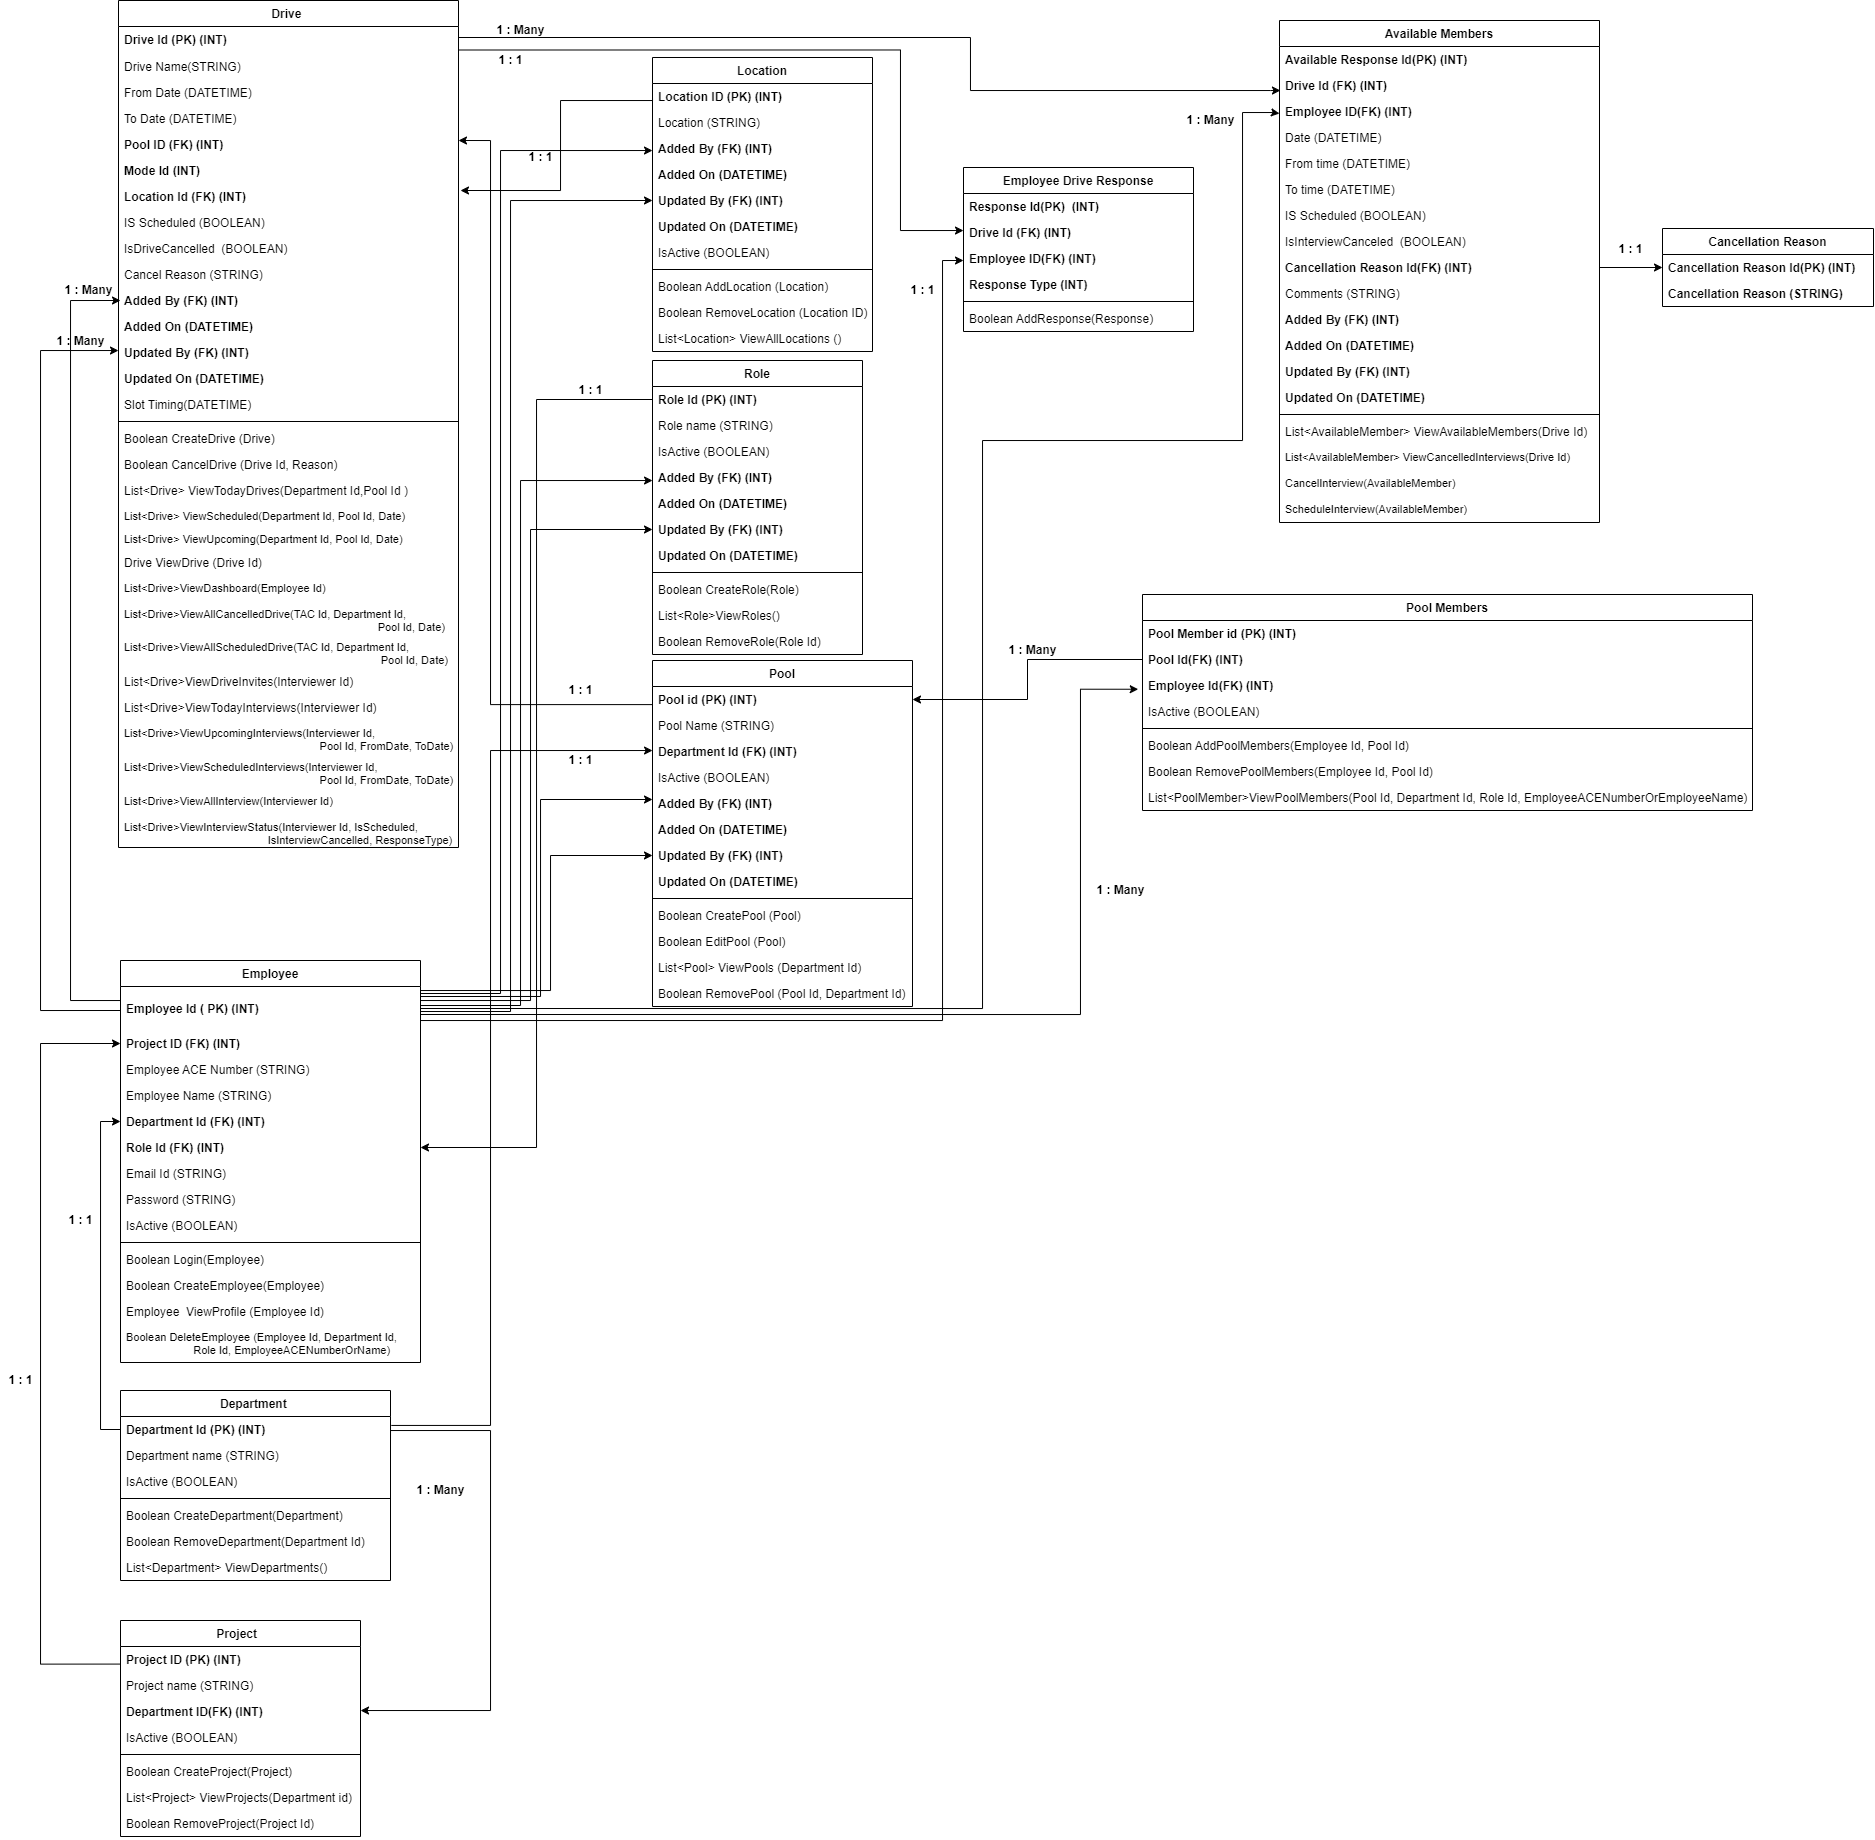
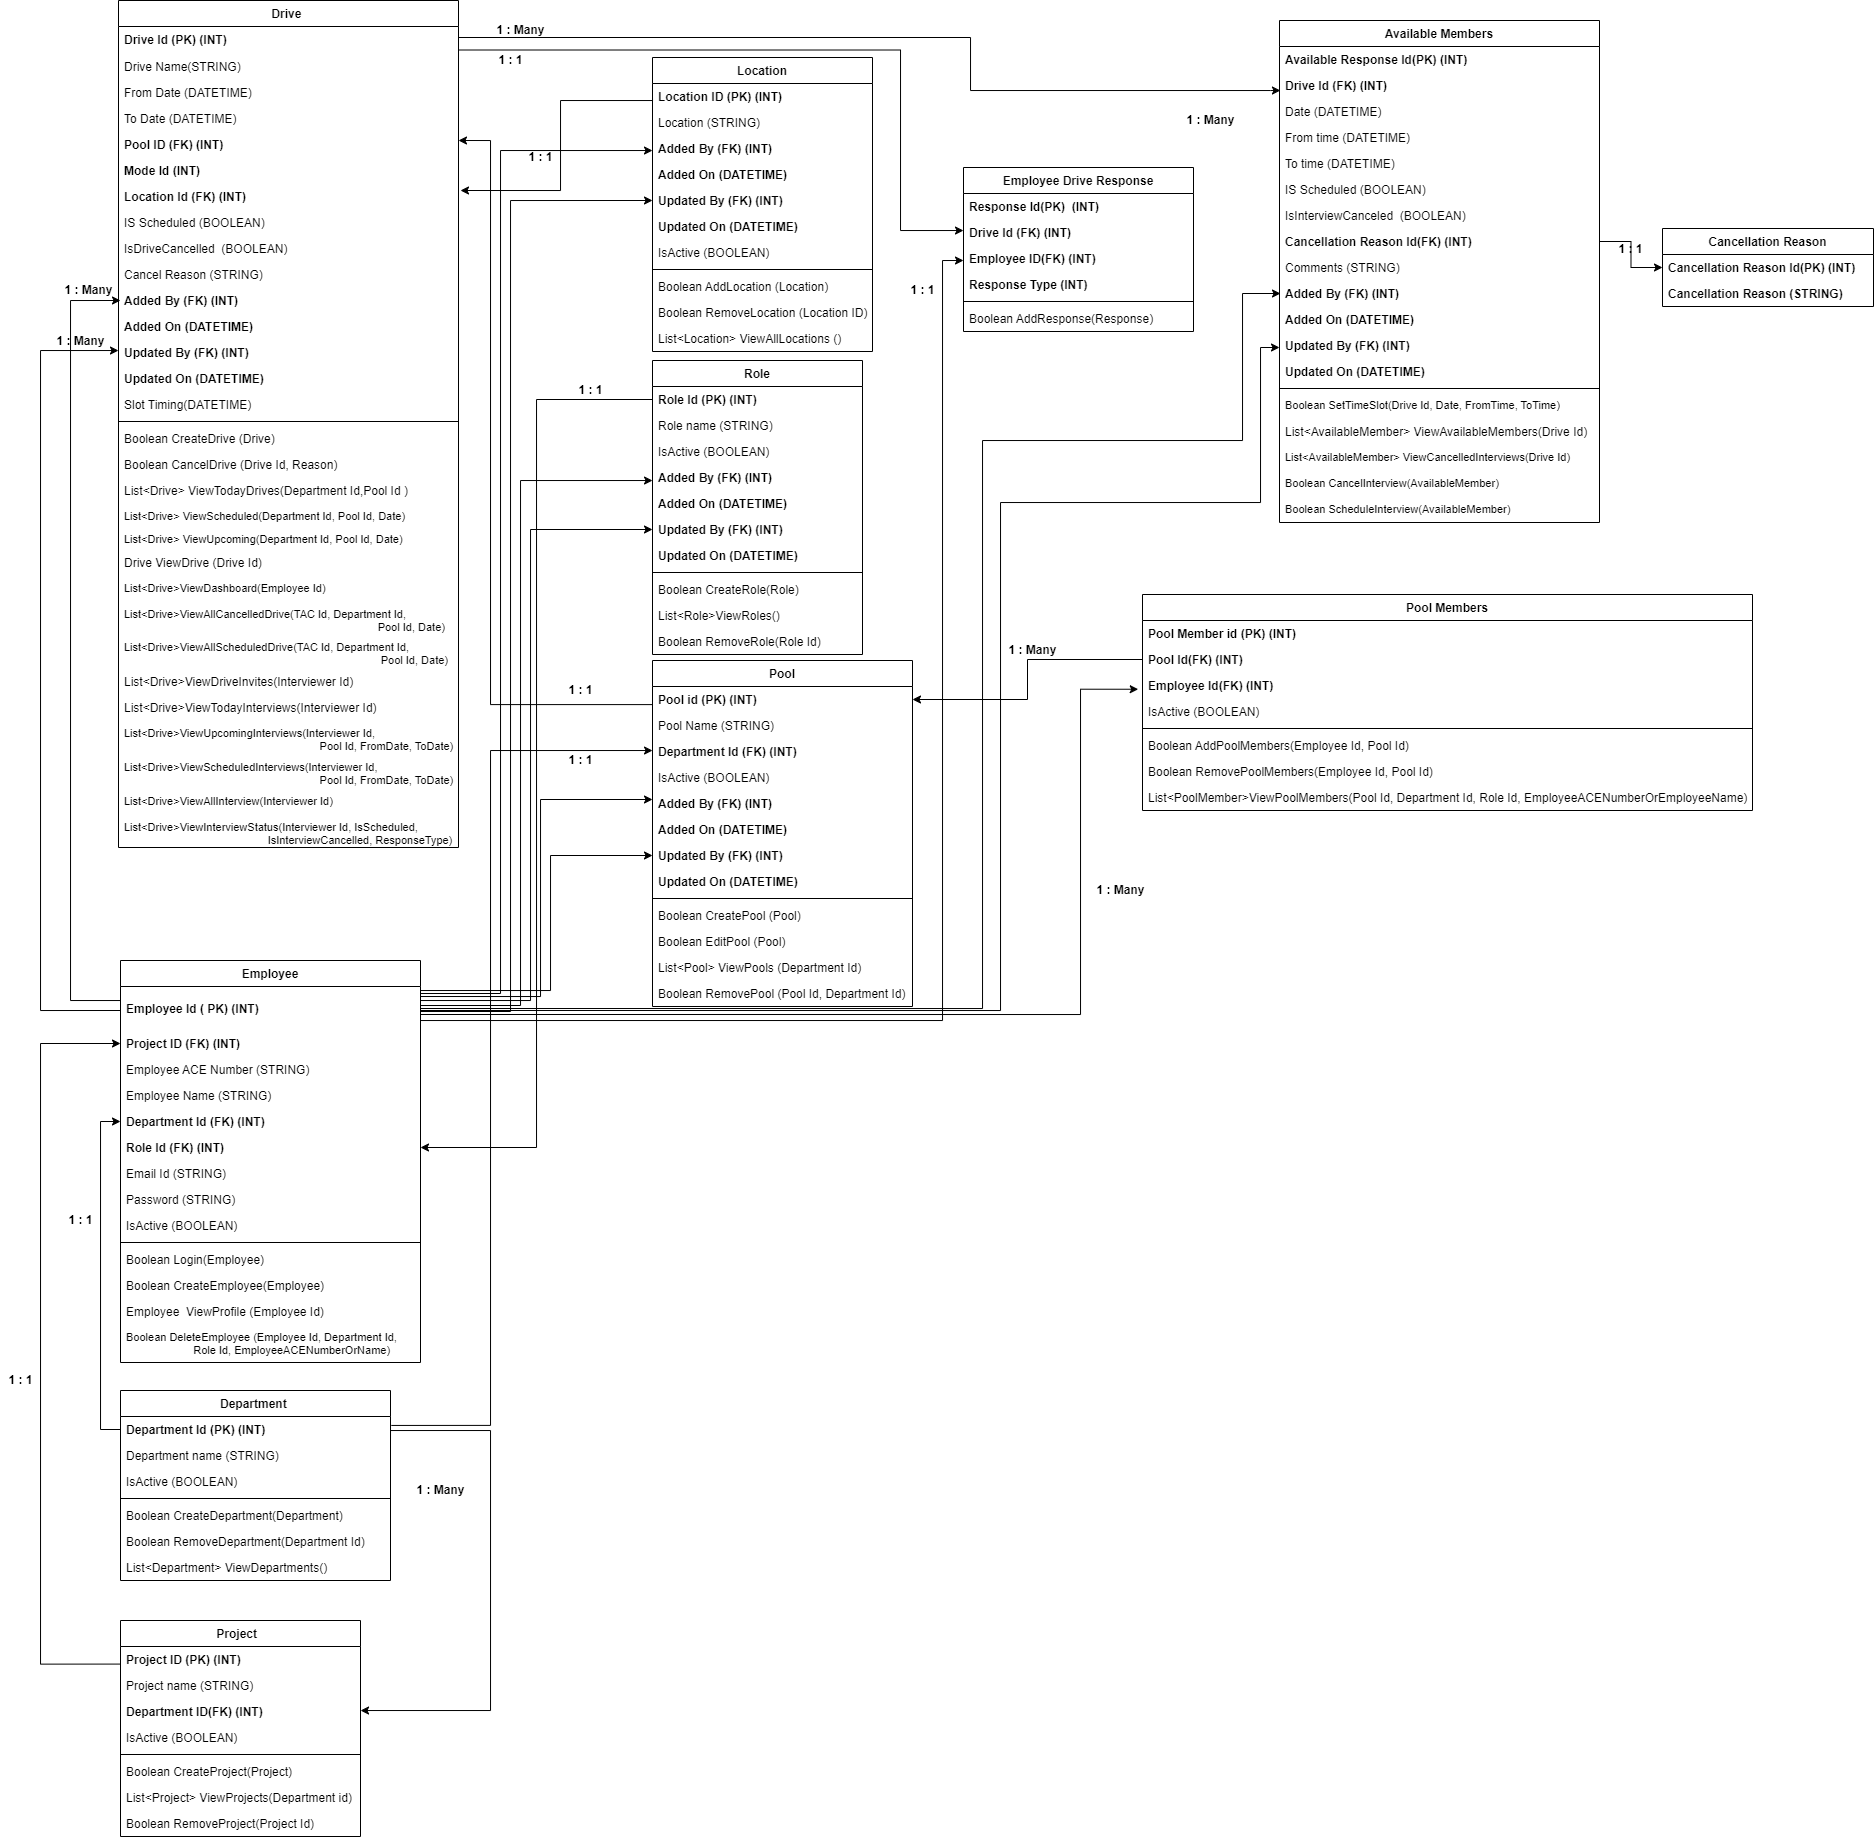
updated services

diff --git a/Services/DriveServices.cs b/Services/DriveServices.cs
@@ -3,12 +3,14 @@ public class Drive
 {
 
 }
+public class AvailableMember { }
+public class EmployeeDriveResponse { }
 public class DriveServices
 {
 
     //For TAC in Drive Enitity
     public bool CreateDrive(Drive drive);
-    public bool CancelDrive(int driveId,string Reason);
+    public bool CancelDrive(int driveId, string Reason);
     public List<Drive> ViewTodayDrive(int departmentId, int poolId);
     public List<Drive> ViewUpcommingDrive(int departmentId, int poolId, DateTime driveDate);
     public List<Drive> ViewScheduledDrive(int departmentId, int poolId, DateTime driveDate);
@@ -16,39 +18,29 @@ public class DriveServices
     public List<Drive> ViewAllScheduledDrives(int departmentId, int poolId, DateTime driveDate);
     public List<Drive> ViewAllCancelledDrives(int departmentId, int poolId, DateTime driveDate);
     public Drive ViewDrive(int driveId);
-     
+
 
     //For Interviewer in Drive Enitity
 
     public List<Drive> ViewDriveInvites(int employeeId);
+    public List<Drive> ViewAllInterview(int employeeId);
     public List<Drive> ViewTodayInterviews(int poolId, DateTime driveDate, int employeeId);
-    public List<Drive> ViewScheduledInterviews(int driveId, int poolId, DateTime driveDate, int employeeId);
-    public List<Drive> ViewUpcommingInterviews(int driveId, int poolId, DateTime driveDate, int employeeId);
+    public List<Drive> ViewScheduledInterviews(int poolId, DateTime driveDate, int employeeId);
+    public List<Drive> ViewUpcommingInterviews(int poolId, DateTime driveDate, int employeeId);
+
+    public List<Drive> ViewInterviewStatus(int employeeId, bool IsScheduled, bool IsInterviewCancelled, int ResponseType);
+
+    //For Available Member entity
+    public List<AvailableMember> ViewAvailableMember(int DriveId);
+    public List<AvailableMember> ViewCancelledInterview(int DriveId);
+    public bool ScheduleInterview(AvailableMember availableMember);
+    public bool CancelInterview(AvailableMember availableMember);
+
     
-    public List<Drive> ViewScheduledHistory(int employeeId);
-    public List<Drive> ViewCancelledHistory(int employeeId);
+    //For Employee Drive Response entity
+    public bool AddResponse(EmployeeDriveResponse employeeResponse);
 
 
 
 
-
-    //AvailableResponse
-    public class AvailableResponse
-    {
-
-        //For AvailableResponse entity
-        public List<AvailableResponse> ViewAvailableMember(int DriveId);
-        public List<AvailableResponse> ViewCancelledInterview();
-        public void ScheduleInterview(int employeeId);
-
-        //For CancellationReason entity
-        public void CancelInterview(int employeeId);
-    }
-
-    //EmployeeDriveResponse
-    public class EmployeeDriveResponse
-    {
-        public void AddResponse(EmployeeDriveResponse employeeResponse);
-        public List<EmployeeDriveResponse> ViewResponses(int driveId);
-    }
 }

diff --git a/Services/PoolServices.cs b/Services/PoolServices.cs
@@ -1,22 +1,20 @@
 using System;
 
-class Pool
+public class Pool
 {
-    
+
 }
+public class PoolMembers { }
 public class PoolServices
 {
     public bool CreatePool(Pool pool);
     public bool EditPool(Pool pool);
     public bool RemovePool(int poolId);
     public List<Pool> ViewPools(int departmentId);
-}
-
-//PoolMembers
-public class PoolMembers
-{
+    //PoolMembers
     public bool CreatePool(Employee employeeId);
     public bool RemovePool(int employeeId);
     public List<Employee> ViewMembers(int departmentId, int employeeId);
-
 }
+
+

diff --git a/Services/EmployeeServices.cs b/Services/EmployeeServices.cs
@@ -8,8 +8,8 @@ public class EmployeeServices
 {
 
     //For Employee Entity
-    public void CreateEmployee(Employee employee);
-    public void DeleteEmployee(int employeeId);
-    public void Login(Employee employee);
+    public bool CreateEmployee(Employee employee);
+    public bool DeleteEmployee(int employeeId);
+    public bool Login(Employee employee);
     public Employee ViewProfile(int employeeId);
 };

diff --git a/Services/RoleServices.cs b/Services/RoleServices.cs
@@ -1,5 +1,7 @@
 using System;
-
+public class Role{
+    
+}
 public class RoleServices
 {
     public bool CreateRole(Role role);
